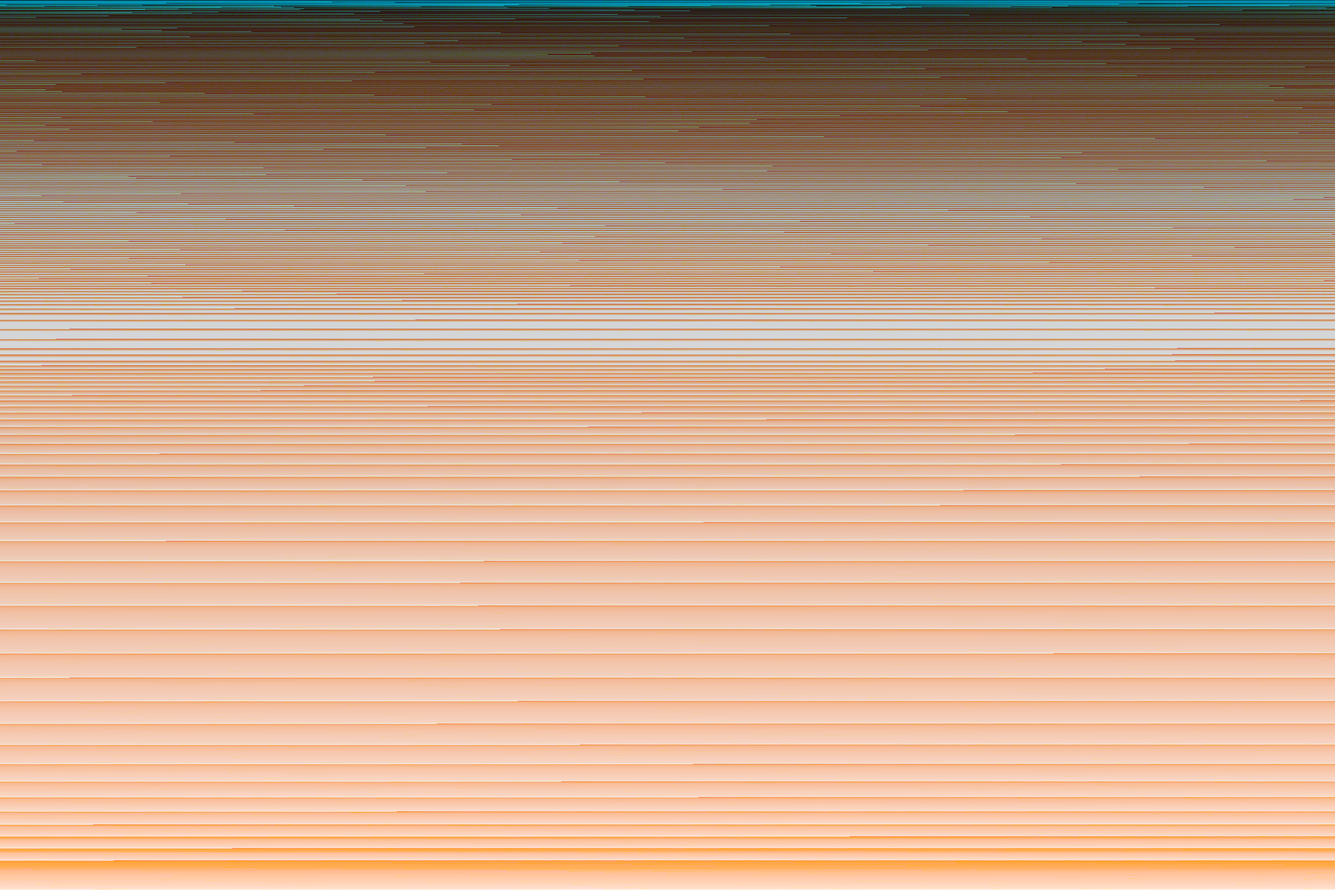
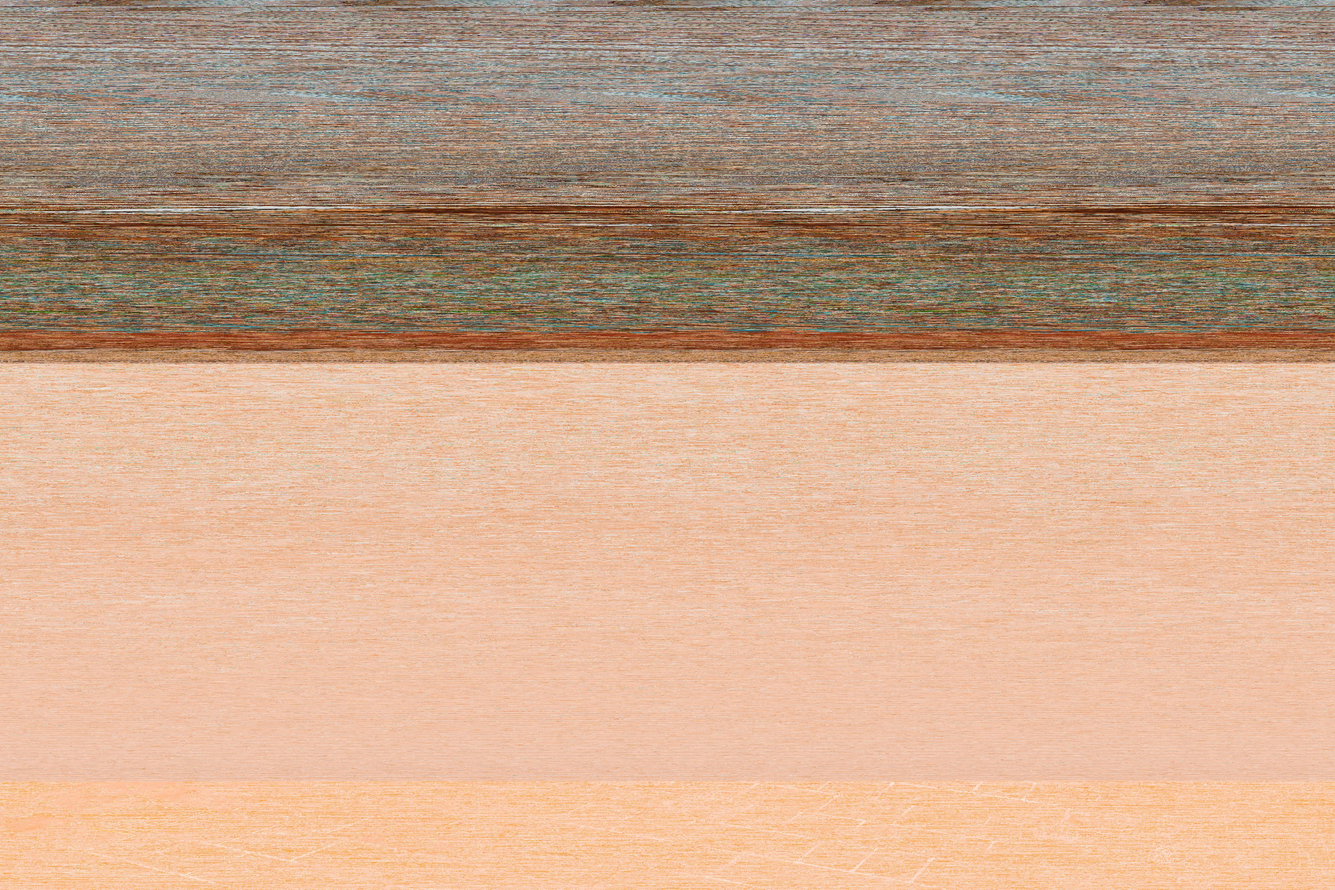
Code refactor + Another attempt in fixing sort

diff --git a/Pixel_Arranger/src/ValuesSorter.java b/Pixel_Arranger/src/ValuesSorter.java
@@ -3,67 +3,75 @@ import java.util.ArrayList;
 public class ValuesSorter {
 
     // Java program for implementation of QuickSort
-    static class QuickSort
-    {
-        /* This function takes last element as pivot,
-        places the pivot element at its correct
-        position in sorted array, and places all
-        smaller (smaller than pivot) to left of
-        pivot and all greater elements to right
-        of pivot */
-        static int partition(ArrayList<float[]> arr, int low, int high)
-        {
-            low = 0;
-            high = arr.size() - 1;
-            float pivot = arr.get(high)[0];
-            int i = (low-1); // index of smaller element
-            for (int j=low; j<high; j++)
-            {
-                // If current element is smaller than or
-                // equal to pivot
-                if (arr.get(j)[0] <= pivot)
-                {
-                    i++;
 
-                    // swap arr[i] and arr[j]
-                    float[] temp = arr.get(i);
-                    arr.set(i, arr.get(j));
-                    arr.set(j, temp);
-                }
+    /* This function takes last element as pivot,
+    places the pivot element at its correct
+    position in sorted array, and places all
+    smaller (smaller than pivot) to left of
+    pivot and all greater elements to right
+    of pivot */
+    static int partition(ArrayList<float[]> arr, int low, int high) {
+        low = 0;
+        high = arr.size() - 1;
+        float pivot = arr.get(high)[2];
+        int i = (low - 1); // index of smaller element
+        for (int j = low; j < high; j++) {
+            // If current element is smaller than or
+            // equal to pivot
+            if (arr.get(j)[2] <= pivot) {
+                i++;
+
+                // swap arr[i] and arr[j]
+                float[] temp = arr.get(i);
+                arr.set(i, arr.get(j));
+                arr.set(j, temp);
             }
-
-            // swap arr[i+1] and arr[high] (or pivot)
-            float[] temp = arr.get(i + 1);
-            arr.set(i + 1, arr.get(high));
-            arr.set(high, temp);
-
-            return i+1;
         }
 
+        // swap arr[i+1] and arr[high] (or pivot)
+        float[] temp = arr.get(i + 1);
+        arr.set(i + 1, arr.get(high));
+        arr.set(high, temp);
 
-        /* The main function that implements QuickSort()
-        arr[] --> Array to be sorted,
-        low --> Starting index,
-        high --> Ending index */
-        static void sort(ArrayList<float[]> arr, int low, int high)
-        {
-            if (low < high)
-            {
+        return i + 1;
+    }
+
+
+    /* The main function that implements QuickSort()
+    arr[] --> Array to be sorted,
+    low --> Starting index,
+    high --> Ending index */
+    static void quickSort(ArrayList<float[]> arr, int low, int high) {
+        if (low < high) {
 			/* pi is partitioning index, arr[pi] is
 			now at right place */
-                int pi =partition(arr,low,high);
-                
-                if (pi-low <= high-(pi+1))
-                {
-                    sort(arr,low,pi);
-                    low=pi+1;
-                }
-                else
-                {
-                    sort(arr,pi+1,high);
-                    high=pi;
+            int pi = partition(arr, low, high);
+
+            if (pi - low <= high - (pi + 1)) {
+                quickSort(arr, low, pi);
+                low = pi + 1;
+            } else {
+                quickSort(arr, pi + 1, high);
+                high = pi;
+            }
+        }
+    }
+
+    static void bubbleSort(ArrayList<float[]> arr) {
+        int n = arr.size();
+        float[] temp;
+        for (int i = 0; i < n; i++) {
+            for (int j = 1; j < (n - i); j++) {
+                if ((arr.get(j - 1)[0] > arr.get(j)[0]) ||
+                        ((arr.get(j - 1)[0] == arr.get(j)[0]) && (arr.get(j - 1)[1] > arr.get(j)[1])) ||
+                        ((arr.get(j - 1)[0] == arr.get(j)[0]) && (arr.get(j - 1)[1] == arr.get(j)[1]) && (arr.get(j - 1)[2] > arr.get(j)[2]))) {
+                    //swap elements
+                    temp = arr.get(j - 1);
+                    arr.set(j - 1, arr.get(j));
+                    arr.set(j, temp);
                 }
             }
         }
     }
 }
+

diff --git a/Pixel_Arranger/src/ImageProcessor.java b/Pixel_Arranger/src/ImageProcessor.java
@@ -3,18 +3,17 @@ import java.awt.*;
 import java.awt.image.BufferedImage;
 import java.io.File;
 import java.io.IOException;
-import java.math.BigDecimal;
 import java.util.ArrayList;
 import java.util.Collections;
 
 public class ImageProcessor {
 
-    public BufferedImage Get_sorted_img(File f) throws IOException { //Returns image with sorted
+    public BufferedImage getSortedImage(File f) throws IOException { //Returns image with sorted
         BufferedImage img;                                           //by hex values pixels
         img = ImageIO.read(f);
         ArrayList<Integer> pixelcolors = new ArrayList<>();
 
-        pixelcolors = Sort_pixels_hsb(pixelcolors, img);           //selected sorting
+        pixelcolors = sortPixelsHSB(pixelcolors, img);           //selected sorting
 
         int count = 0;
         for (int y = 0; y < img.getHeight(); y++) {                //Colors are inserted in every pixel
@@ -26,32 +25,30 @@ public class ImageProcessor {
         return img;
     }
 
-    public ArrayList<Integer> Sort_pixels_hex(ArrayList<Integer> list, BufferedImage img) // Fills and sorts
+    public ArrayList<Integer> sortPixelHex(ArrayList<Integer> list, BufferedImage img) // Fills and sorts
     {                                                                                     //array of hex values
-        int pixel = 0;
+        int pixelColor = 0;
 
         Color color;
-        String hex;
+        String colorHexValue;
 
         for (int y = 0; y < img.getHeight(); y++) {
             for (int x = 0; x < img.getWidth(); x++) {
-                pixel = img.getRGB(x, y);
-                color = new Color(pixel);
-                hex = String.format("%02x%02x%02x", color.getRed(), color.getGreen(), color.getBlue());
-                list.add((int)Long.parseLong(hex, 16));
+                pixelColor = img.getRGB(x, y);
+                color = new Color(pixelColor);
+                colorHexValue = String.format("%02x%02x%02x", color.getRed(), color.getGreen(), color.getBlue());
+                list.add((int)Long.parseLong(colorHexValue, 16));
             }
         }
         Collections.sort(list);
         return list;
     }
 
-    public ArrayList<Integer> Sort_pixels_hsb(ArrayList<Integer> list, BufferedImage img)
+    public ArrayList<Integer> sortPixelsHSB(ArrayList<Integer> list, BufferedImage img)
     {
         int pixel = 0;
 
         Color color;
-
-        BigDecimal hue;
 
         ArrayList<float[]> hsbvalues = new ArrayList<float[]>();
 
@@ -59,13 +56,12 @@ public class ImageProcessor {
             for (int x = 0; x < img.getWidth(); x++) {
                 pixel = img.getRGB(x, y);
                 color = new Color(pixel);
-                //hex = String.format("%02x%02x%02x", color.getRed(), color.getGreen(), color.getBlue());
                 float[] hsb = Color.RGBtoHSB(color.getRed(), color.getGreen(), color.getBlue(), null);
                 hsbvalues.add(hsb);
             }
         }
 
-        ValuesSorter.QuickSort.sort(hsbvalues, 0, hsbvalues.size()-1);
+        ValuesSorter.bubbleSort(hsbvalues);
         for (float[] x : hsbvalues)
         {
             list.add(Color.HSBtoRGB(x[0], x[1], x[2]));

diff --git a/Pixel_Arranger/src/Main.java b/Pixel_Arranger/src/Main.java
@@ -1,10 +1,7 @@
-import java.awt.*;
 import java.awt.image.BufferedImage;
 import java.io.File;
 import java.io.IOException;
-import java.util.ArrayList;
 import javax.imageio.ImageIO;
-import java.util.Collections;
 
 public class Main {
     public static void main(String args[]) throws IOException
@@ -13,12 +10,15 @@ public class Main {
         File f = null;
         ImageProcessor proc = new ImageProcessor();
 
-        f = new File("C:/Users/mark6/OneDrive/Documents/Pixel_Arranger/Pixel_Arranger/testimages/test1.png");
+        String inputfile = "testimage.png";
+        String outputfile = "testimage3.png";
 
-        img = proc.Get_sorted_img(f);
+        f = new File("C:/Users/mark6/OneDrive/Documents/Pixel_Arranger/Pixel_Arranger/testimages/" + inputfile);
+
+        img = proc.getSortedImage(f);
 
         try {
-            f = new File("C:/Users/mark6/OneDrive/Documents/Pixel_Arranger/Pixel_Arranger/testimages/result1.png");
+            f = new File("C:/Users/mark6/OneDrive/Documents/Pixel_Arranger/Pixel_Arranger/testimages/" + outputfile);
             ImageIO.write(img, "png", f);
         }
         catch (IOException e) {
